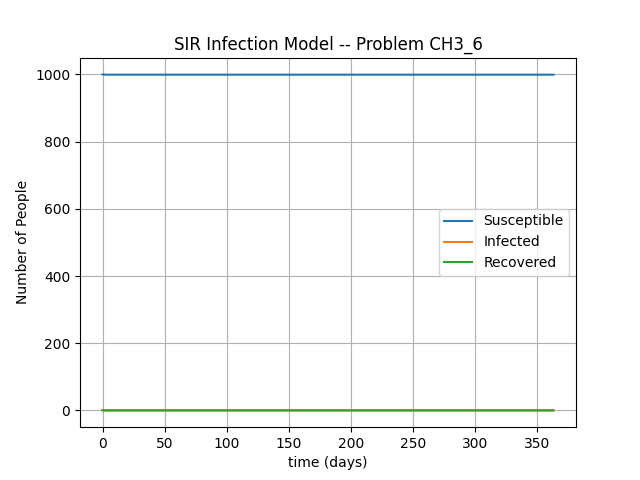
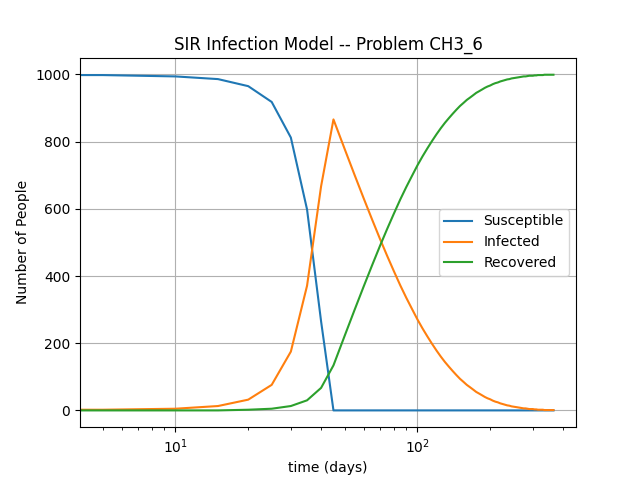
finished! Onto Hodgkin-Huxley Model of Neurons

diff --git a/ch3_objects/ch3_6_SIR_model.py b/ch3_objects/ch3_6_SIR_model.py
@@ -37,8 +37,8 @@ class EulerEstimatorMultivariable():
         points = [(t, p)]
         for i in range(n):
             a += dt * self.eval_derivative('S', t, p)
-            b = min(0, abs(b + (dt * self.eval_derivative('I', t, p)) - c))
-            c += dt * self.eval_derivative('R', t, p)
+            b += dt * (self.eval_derivative('I', t, p) - self.eval_derivative('R', t, p))
+            c += dt * self.eval_derivative('R', t, p)  
             t += dt 
             p = {'S':a, 'I':b, 'R':c}
             points += [(t, p)]
@@ -51,14 +51,14 @@ def dS_dt(t, p):
     return -1 * dI_dt(t, p)
 
 def dI_dt(t, p):
-    return 0.01 * p["S"] * p["I"] * 0.03 - dR_dt(t, p)
+    return 0.01 * p["S"] * p["I"] * 0.03
 
 def dR_dt(t, p):
     return 0.02 * p["I"]
 
 
 p0 = (0, {'S': 1000, 'I': 1, 'R': 0})
-dt = 3
+dt = 5
 n = int((365) / dt)
 derivatives = {'S': dS_dt, 'I': dI_dt, 'R': dR_dt}
 euler_mv = EulerEstimatorMultivariable(derivatives)
@@ -69,12 +69,12 @@ print(f"{[euler_mv.derivatives[key].__name__ for key in derivatives]}".center(40
 
 plt.figure()
 tss = [p[0] for p in points]
-Sss = [p[1]["S"] for p in points]
-Iss = [p[1]["I"] for p in points]
-Rss = [p[1]["R"] for p in points]
-plt.plot(tss, Sss, label="Susceptible")
-plt.plot(tss, Iss, label="Infected")
-plt.plot(tss, Rss, label="Recovered")
+Sss = [int(p[1]["S"]) for p in points]
+Iss = [int(p[1]["I"]) for p in points]
+Rss = [int(p[1]["R"]) for p in points]
+plt.semilogx(tss, Sss, label="Susceptible")
+plt.semilogx(tss, Iss, label="Infected")
+plt.semilogx(tss, Rss, label="Recovered")
 
 plt.title("SIR Infection Model -- Problem CH3_6")
 plt.xlabel("time (days)")
